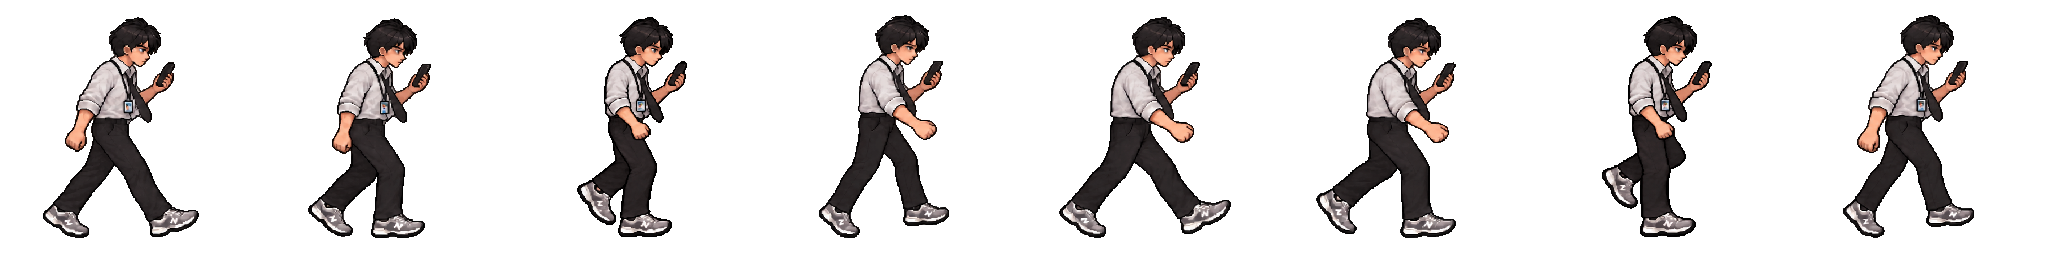
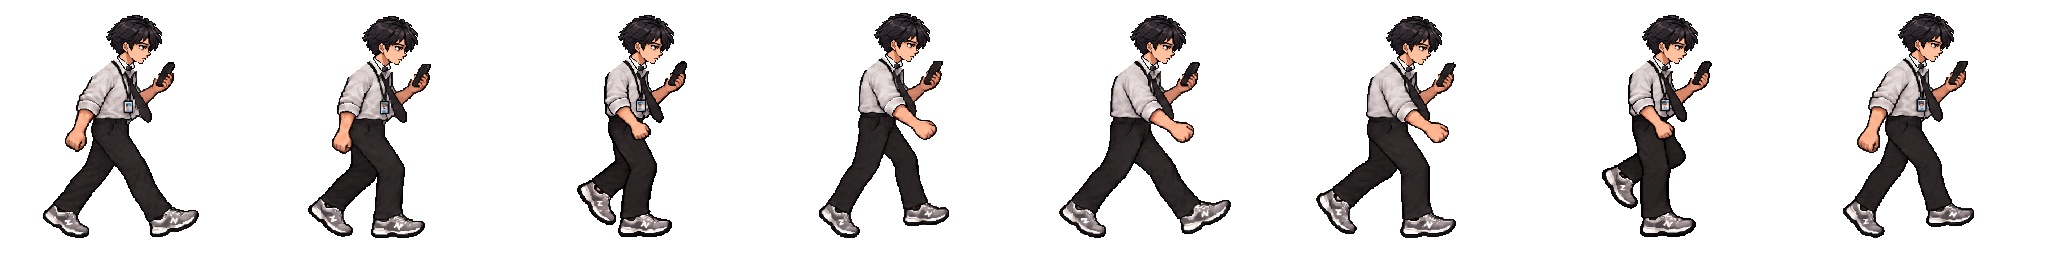
fix: share one fixed-size walking head and remove old head residue

diff --git a/assets/player/movement-inbetweens-source/README.md b/assets/player/movement-inbetweens-source/README.md
@@ -7,12 +7,13 @@
 | `walk-keys.png` | 3열 × 2행, 양발 접지·하강·통과 6장 | `../jeong-suho-walk-eight.png` |
 | `walk-up.png` | 2열 × 1행, 양발 발끝 밀기 2장 | 위 시트의 3/7번 인덱스에 삽입 |
 | `phone-walk-{off,on}.png` | 4열 × 2행, 같은 8단계 걷기 | `../jeong-suho-phone-walk-eight-{off,on}.png` |
+| `walk-head.png` | 56×56, 머리·목·옷깃 공통 레이어 | 위 걷기 3종의 24개 자세 모두에 같은 픽셀로 합성 |
 | `run.png` | 4열 × 2행, 달리기 중간 자세 8장 | `../jeong-suho-run-sixteen.png` |
 | `phone-run-off.png` | 4열 × 2행, 휴대폰을 든 중간 자세 8장 | `../jeong-suho-phone-run-sixteen-off.png` |
 
 걷기는 접지 → 무릎을 굽혀 체중 받기 → 반대 다리 통과 → 지지 발의 뒤꿈치를 들고 발끝 밀기 순서다. 후반 4장은 반대 발이 지지하며 팔도 반대로 움직인다. 모든 프레임에 지지하는 발 또는 발끝이 바닥에 닿는다. 3/7번의 과도한 무릎 들기를 낮춰, 앞으로 내미는 신발이 지면 가까이를 지나게 했다. 머리 기준점과 몸 크기를 통일하고 상하 움직임은 약 3px로 제한했다.
 
-`walk-keys.png`의 6개 자세에서 뒤통수와 목 사이에 남아 있던 회색 삼각형 배경 잔상을 제거했다. `image_gen`으로 정리한 머리 외곽의 투명 영역만 원본에 적용했으며, 그 밖의 원본 그림은 그대로 보존했다. `docs/previews/suho-walk-head-cleanup.gif`에서 확대 전후를 비교할 수 있다.
+머리는 몸 전체를 정규화할 때 함께 확대·축소하지 않는다. `image_gen`으로 만든 깨끗한 머리·목·옷깃을 `walk-head.png`에 56×56 픽셀로 저장했다. 내보내기는 기존 머리를 어깨·옷깃 경계까지 제거한 뒤 이 공통 레이어를 크기 변경 없이 합성한다. 일반·휴대폰 OFF·플래시 ON의 24개 자세가 모두 같은 머리 픽셀을 쓰며, 움직임은 상하 3px 이내의 평행 이동뿐이다. 머리 뒤 회색 잔상과 기존 턱·목 조각도 제거한다. 앞으로 내민 휴대폰과 LED는 보존한다. `docs/previews/suho-walk-head-consistency.gif`에서 3종의 머리를 같은 높이로 맞춰 전후 비교할 수 있다.
 
 휴대폰은 먼쪽 손으로 잡고, 빈손인 가까운 팔은 어깨·팔꿈치·손목이 보이도록 그렸다. 빈손은 다리와 반대로 흔들린다. 0/1/7번에서는 뒤쪽, 2/6번에서는 중간, 3/4/5번에서는 앞쪽을 지난다. 모든 자세는 휴대폰을 잡은 팔 하나와 빈손 팔 하나로 구성한다. ON은 생성된 LED 부분만 OFF에 정렬해 합성했으므로, 플래시를 전환해도 몸과 팔이 바뀌지 않는다.
 
@@ -20,6 +21,6 @@
 
 달리기 두 시트는 기존 8프레임을 짝수 인덱스에 보존하고 중간 자세를 홀수에 넣은 16프레임이다. 걷기는 전체 8프레임을 재작성했으며 이전 그림과 교대로 섞지 않는다. 런타임 셀은 256×256, 걷기는 한 주기 184px 이동(200px/s에서 0.92초), 달리기는 192px 이동(340px/s에서 약 0.565초)이다.
 
-프로젝트 루트의 `node scripts/prepare-movement-inbetweens.mjs`가 최근접 보간·알파 정리·정렬·셀 배열만 수행해 시트를 재생성한다. 걷기의 기준점은 머리 중심 x=135, 발 기준선은 일반 239/휴대폰 237이다. ON/OFF는 OFF의 정렬값을 공유한다. 광원 좌표는 `js/scene/camera.js`의 실제 LED 위치에 맞췄다.
+프로젝트 루트의 `node scripts/prepare-movement-inbetweens.mjs`가 최근접 보간·알파 정리·몸 정렬·공통 머리 합성·셀 배열을 수행해 시트를 재생성한다. 몸의 정렬 기준은 원본 머리 중심 x=135, 발 기준선은 일반 239/휴대폰 237이다. 공통 머리는 x=106, 기준 y=17(휴대폰 15)에 위치한다. ON/OFF는 OFF의 정렬값을 공유한다. 광원 좌표는 `js/scene/camera.js`의 실제 LED 위치에 맞췄다.
 
-검증은 `tests/movement-inbetweens.mjs`와 `tests/phone-movement.mjs`다. 빈손의 앞·중간·뒤 움직임, ON/OFF의 팔 위상, 3/7번의 낮은 앞발 높이도 검사한다. `docs/previews/suho-walk-inbetweens.gif`는 일반·휴대폰 OFF·플래시 ON 걷기 3개이고, `suho-run-inbetweens.gif`는 일반·휴대폰 OFF 달리기 2개만 보여 준다. `suho-phone-walk-arm-swing.gif`는 팔과 다리 수정 전(왼쪽)과 후(오른쪽) 비교다.
+검증은 `tests/movement-inbetweens.mjs`와 `tests/phone-movement.mjs`다. 24개 자세의 머리·턱·목·옷깃 픽셀 일치, 머리 주변과 목뒤의 투명 영역, 기존 턱 조각의 부재를 검사한다. 빈손의 앞·중간·뒤 움직임, ON/OFF의 팔 위상, 3/7번의 낮은 앞발 높이도 검사한다. `docs/previews/suho-walk-inbetweens.gif`는 일반·휴대폰 OFF·플래시 ON 걷기 3개이고, `suho-run-inbetweens.gif`는 일반·휴대폰 OFF 달리기 2개만 보여 준다. `suho-phone-walk-arm-swing.gif`는 팔과 다리 수정 전(왼쪽)과 후(오른쪽) 비교다.

diff --git a/docs/suho-movement-inbetweens-2026-10-17.md b/docs/suho-movement-inbetweens-2026-10-17.md
@@ -1,6 +1,6 @@
 # 수호 이동 스프라이트 · 2026-10-18 수정
 
-걷기의 상체 기울기·셔츠 주름·체형이 기존 그림과 번갈아 바뀌던 문제를 수정했다. 기존 12프레임 조합을 제거하고 접지·하강·통과·발끝 밀기를 양발로 반복하는 **8프레임 걷기**로 다시 구성했다. 일반·휴대폰 OFF·플래시 ON 걷기를 같은 단계로 맞추고 머리 기준점·몸 크기·발 높이를 정렬했다. 달리기는 기존 8프레임 사이에 중간 자세를 넣은 16프레임을 유지한다.
+수호 걷기에서 머리가 커졌다 줄어들고 회색 잔상이 남던 문제를 수정했다. 일반·휴대폰 OFF·플래시 ON의 **8프레임 걷기** 모두에 같은 56×56 머리·목·옷깃 레이어를 몸 정규화 후 합성한다. 머리는 확대·축소 없이 상하 3px 이내로만 이동한다. 접지·하강·통과·발끝 밀기를 양발로 반복하며, 달리기는 기존 8프레임 사이에 중간 자세를 넣은 16프레임이다.
 
 **플래시 ON 상태에서는 달릴 수 없다.** Shift를 눌러도 걷기 속도와 걷기 그림을 유지한다. 켜진 달리기 확장 시트와 해당 미리보기는 제거했다. 점프·낙하에서는 기존 공중 자세 두 장만 추출한 `jeong-suho-phone-jump-on.png`를 사용한다.
 
@@ -8,11 +8,12 @@
 
 마지막 프레임을 포함한 3/7번의 높은 무릎 들기도 낮췄다. 뒤쪽 발끝이 지면을 지지하는 동안 앞발은 지면 가까이 내밀며, 일반·휴대폰 OFF·플래시 ON에 모두 적용했다.
 
-일반 걷기의 6개 자세에서 뒤통수와 목 사이에 남아 있던 회색 삼각형 잔상도 제거했다. 생성 도구로 정리한 투명 영역을 원본에 적용해 잔상 픽셀만 지웠으며, 나머지 원본 그림은 보존했다. 밝은 배경·어두운 배경에서 머리 외곽을 확대 확인했다.
+기존 머리를 어깨·옷깃 경계까지 제거해 회색 목뒤 잔상과 턱 조각이 겹치지 않게 했다. 밝은 배경·어두운 배경에서 외곽을 확대 확인했다. 정렬한 머리 픽셀의 해시는 이전 16종에서 1종으로 통일됐으며, 24개 자세가 모두 동일하다. y=96 아래의 팔·다리 등 기존 그림은 변경 전과 픽셀 단위로 같다.
 
 - [걷기 GIF](previews/suho-walk-inbetweens.gif): 일반 이동·휴대폰 OFF·플래시 ON.
 - [팔·다리 전후 비교](previews/suho-phone-walk-arm-swing.gif): 왼쪽 수정 전, 오른쪽 수정 후.
 - [머리 잔상 확대 비교](previews/suho-walk-head-cleanup.gif): 왼쪽 수정 전, 오른쪽 수정 후.
+- [머리 크기·잔상 3종 비교](previews/suho-walk-head-consistency.gif): 위부터 일반·휴대폰 OFF·플래시 ON, 왼쪽 수정 전·오른쪽 수정 후. 상하 이동을 정렬해 머리 크기를 비교한다.
 - [달리기 GIF](previews/suho-run-inbetweens.gif): 일반 이동·휴대폰 OFF만 포함.
 - [원본 및 재생성 방법](../assets/player/movement-inbetweens-source/README.md)
 
@@ -23,7 +24,7 @@
 | 검사 | 결과 |
 | --- | --- |
 | `node scripts/prepare-movement-inbetweens.mjs` | 재생성 통과, 잘림 없음 |
-| `node tests/movement-inbetweens.mjs` | 통과: 빈손의 앞·중간·뒤 움직임과 ON/OFF 팔 위상, 3/7번의 낮은 앞발, 8단계 걷기의 접지·발끝 밀기·머리 기준점, 알파·여백, 달리기/점프 원본 픽셀 보존, Chromium의 전체 8/16프레임 재생·셀 선택·정지 복귀 |
+| `node tests/movement-inbetweens.mjs` | 통과: 24개 자세의 머리·목·옷깃 픽셀 일치, 머리 주변·목뒤 잔상과 기존 턱 조각 부재, 팔 앞·중간·뒤 움직임, 낮은 앞발·접지·정렬, 알파·여백, 달리기/점프 원본 보존, Chromium 전체 8/16프레임 재생·정지 복귀 |
 | `node tests/phone-movement.mjs` | 통과: 각 LED/광원 위치, 양방향 이동, 플래시 ON에서 Shift 달리기 차단, 전용 점프/낙하 2프레임, 배터리·넣기·모바일·터치 |
 | `node tests/opening.mjs` | 통과: 오프닝·제어 인계·모바일·이미지 실패 복구 |
 | `npm run test:syntax` | 89/89 스크립트 파싱 통과 |
